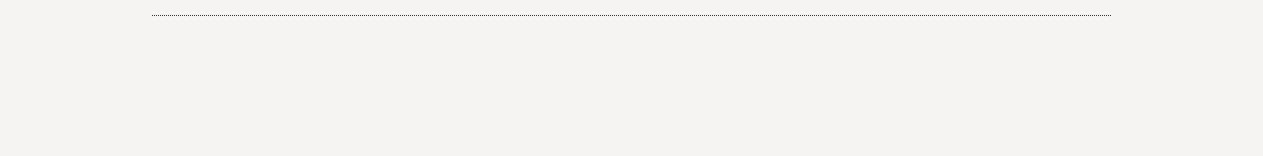
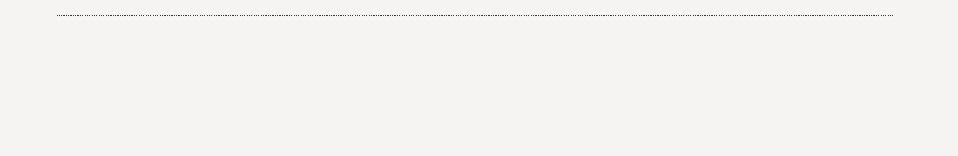
edit 4

Changed region(s): [[0.0605, 0.0769, 0.9081, 0.1026]]

diff --git a/index.html b/index.html
@@ -5,23 +5,23 @@
 <title>Untitled Document</title>
 <style type="text/css">
 div.pro {
-	width:1263px;
+	width:958px;
 	min-height:1256px;
-	background-color:#F5F4F2;
+	background-color:#666;
 }
 div {
 	outline:1px dashed #000;
 }
 div.hchild1 {
-	width: 459px;
+	width: 282px;
 	min-height:210px;
 	float:left;
-	background-image:url(01.jpg)
+	background-image:url(21.jpg)
 }
 div.hchild2 {
-	width:804px;
+	width:676px;
 	min-height:210px;
-	margin-left:459px;
+	margin-left:282px;
 	background-color:#F5F4F2;
 }
 div.menu {
@@ -79,13 +79,13 @@ div.menu li li a {
 	white-space: nowrap;
 }
 div.bigax {
-	width:1263px;
-	height:330px;
-	background-image:url(03.jpg);
+	width:958px;
+	height:358px;
+	background-image:url(22.jpg);
 }
 div.anavin {
-	width:1263px;
-	height:284px;
+	width:958px;
+	height:230px;
 	background-color:#F5F4F2;
 }
 /*div.achild1 {
@@ -108,54 +108,58 @@ div.achild3 {
 }*/
 
 div.achild1 {
-	width:302px;
-	height:236px;
+	width:308px;
+	height:130px;
+	margin:0px 10px;
 	float:left;
-	margin: 0px 160px;
-	background-image:url(15.jpg);
+	background-image:url(23.jpg);
 }
 div.achild2 {
-	width:305px;
-	height:236px;
-	margin:-255px 0 20px 481px;
-	background-image:url(16.jpg);
+	width:300px;
+	height:130px;
+	margin: -130px 333px;
+	background-image:url(24.jpg);
 }
 div.achild3 {
-	width:299px;
-	height:236px;
-	margin:20px 0 20px 801px;
-	background-image:url(17.jpg);
+	width:300px;
+	height:130px;
+	margin:0px 648px;
+	background-image:url(25.jpg);
 }
 div.clear {
 	width:0;
 	height:0;
 	clear:both;
 }
+div.parts {
+	width:958px;
+	height:267px;
+}
 div.pchild1 {
-	width:334px;
+	width:240px;
 	height:267px;
 	float:left;
-	background-image:url(07.jpg)
 }
 div.pchild2 {
-	width:296px;
+	width:240px;
 	height:267px;
 	float:left;
-	background-image:url(08.jpg)
 }
 div.pchild3 {
-	width:221px;
+	width:240px;
 	height:267px;
 	float:left;
-	background-image:url(09.jpg)
 }
 div.pchild4 {
-	width:412px;
+	width:238px;
 	height:267px;
-	margin-left:851px;
-	background-image:url(10.jpg);
+	margin-left:720px;
 }
-div.footer {width:1263px   ; height:156px    ; background-image:url(19.jpg);}
+div.footer {
+	width:958px;
+	height:156px;
+	background-image:url(19.jpg);
+}
 div.fchild1 {
 	width:400px;
 	height:60px;
@@ -163,15 +167,11 @@ div.fchild1 {
 	margin-left:100px;
 	margin-top:30px;
 	background-image:url(f1.jpg);
-	
 }
 div.fchild2 {
-	width:470px;
+	width:558px;
 	height:60px;
-	margin-left:640px;
-	margin-top:-50px;
 	float:left;
-	background-image:url(f2.jpg);
 }
 </style>
 </head>
@@ -205,10 +205,9 @@ div.fchild2 {
           </li>
           <li><a href="#">Cantact</a></li>
         </ul>
-     
-      </div><p style="color:#999999">This is a project1. </p>
+      </div>
+      <p style="color:#999999">This is a project1. </p>
     </div>
-    
   </div>
   <div class="bigax"></div>
   <div class="anavin">
